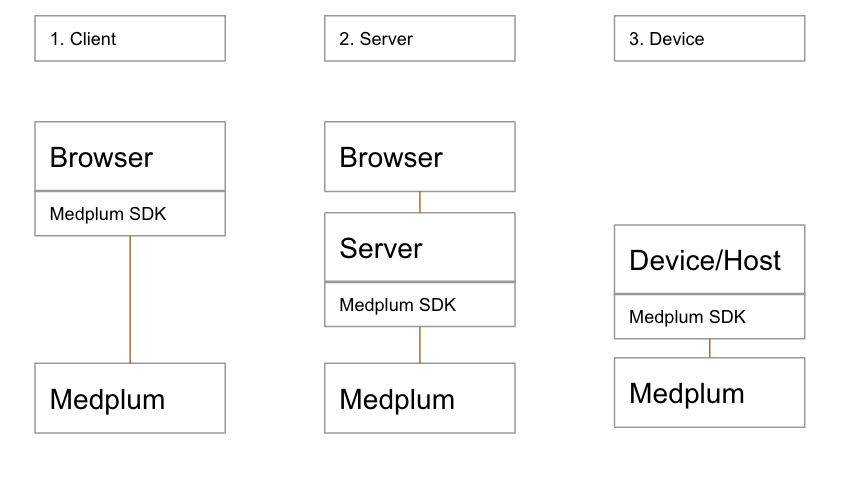
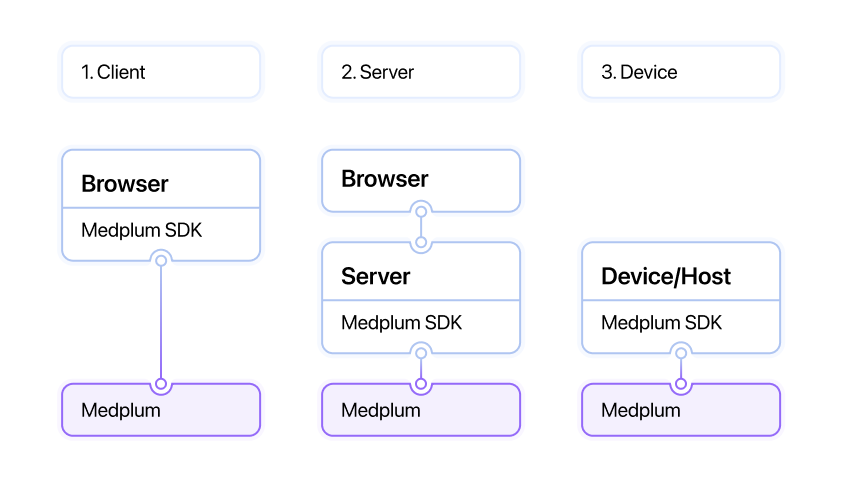
Docs on auth integration patterns (#2457)
* Preliminary article on auth integration patterns

* Adding professional diagrams

* Update to diagram

diff --git a/packages/docs/docs/auth/authentication-integration-patterns.md b/packages/docs/docs/auth/authentication-integration-patterns.md
@@ -13,13 +13,13 @@ This diagram shows a high level summary of the three common patterns. The [Medpl
 
 ## Client Side Authentication
 
-Client side authentication is when a user facing application, usually running in a web browser connects directly to Medplum to request, create or update data. This integration pattern supports sophisticated configurations and has the best the response times. A summary is shown in the diagram below.
+Client side authentication is when a **user facing application**, usually running in a web browser connects directly to Medplum to request, create or update data. This integration pattern supports sophisticated configurations and has the best the response times. A summary is shown in the diagram below.
 
 ![Client authentication](client-auth.png)
 
-Client side authentication enables the following advanced features.
+Client side authentication enables the following advanced features:
 
-- [External identity providers](/docs/auth/external-identity-providers), like [Google](/docs/auth/google-auth), [Okta](/docs/auth/okta-auth) and others
+- Enable [external identity providers](/docs/auth/external-identity-providers), like [Google](/docs/auth/google-auth), [Okta](/docs/auth/okta-auth) and others
 - Patient authentication
 - [IP Address restriction](/docs/auth/ip-access-rules) for logins
 - Use of Medplum [React components](/docs/ui-components) such as the [Signin](https://storybook.medplum.com/?path=/story/medplum-signinform--basic) and [Register](https://storybook.medplum.com/?path=/story/medplum-registerform--basic)
@@ -29,13 +29,13 @@ The [Medplum Typescript SDK](/docs/sdk/classes/MedplumClient#authentication) can
 
 ## Server Side Authentication
 
-Server side authentication is when a user facing application proxies through a host to connect to Medplum. This integration can be useful when adding Medplum functionality to a legacy application.
+Server side authentication is when a **user facing application proxies through a host** to connect to Medplum. This integration can be useful when adding Medplum functionality to a legacy application.
 
 ![Server authentication](server-auth.png)
 
-In an integration of this kind, each server can manage credentials and tokens, and use the Medplum SDK to authenticate. For example, create [Client Credentials](/docs/auth/client-credentials) and store the id and secret with the other secrets used by your application. Maintain an instance of MedplumClient as part of your running application and use the [startClientLogin](docs/sdk/classes/MedplumClient#startclientlogin) call to start an [active login](/docs/sdk/classes/MedplumClient#getactivelogin). The client will continue to refresh the connection if it is in active use, storing the access token in local storage on the server.
+In an integration of this kind, each server can manage credentials and tokens, and use the Medplum SDK to authenticate. For example, create [Client Credentials](/docs/auth/client-credentials) and store the id and secret with the other secrets used by your application. Using the [Typescript SDK](/docs/sdk/classes/MedplumClient), maintain an instance of MedplumClient as part of your running application and use the [startClientLogin](docs/sdk/classes/MedplumClient#startclientlogin) call to start an [active login](/docs/sdk/classes/MedplumClient#getactivelogin). The client will continue to refresh the connection if it is in active use, storing the access token in local storage on the server.
 
-When looking at resource [history](/docs/sdk/classes/MedplumClient#readhistory) for this type of implementation, actions will be taken on behalf of the `ClientApplication` that the server is using to connect.
+When looking at resource [history](/docs/sdk/classes/MedplumClient#readhistory) and AuditEvents for this type of implementation, actions will be taken on behalf of the `ClientApplication` that the server is using to connect.
 
 ## Device/Host Authentication
 
@@ -43,6 +43,6 @@ Device authentication is designed for true machine connectivity, for example con
 
 ![Device authentication](device-auth.png)
 
-For machine connectivity, we encourage use of [ClientCredentials](/docs/auth/client-credentials) with a tightly scoped [access controls](/docs/auth/access-control), giving minimal access to the host at the edge.
+For machine connectivity, we encourage use of [ClientCredentials](/docs/auth/client-credentials) with tightly scoped [access controls](/docs/auth/access-control), giving minimal access to the host at the edge.
 
-If OAuth2 client credentials based authentication is not an option due to device limitations, basic authentication can be used to connect to Medplum. In general, oAuth2 is preferred to basic authentication, and basic authentication should only be used when the edge environment will not tolerate OAuth2.
+If OAuth2 client credentials based authentication is not an option due to device limitations, basic authentication can be used to connect to Medplum. In general, OAuth2 is preferred to basic authentication, and basic authentication should only be used when the edge environment will not tolerate OAuth2. For example, [consuming webhooks](/docs/bots/consuming-webhooks) is a use case where Basic Authentication makes sense.

diff --git a/packages/docs/blog/2023-06-19-ensage-case-study.md b/packages/docs/blog/2023-06-19-ensage-case-study.md
@@ -65,3 +65,4 @@ In conclusion, Medplum was instrumental in providing the tools and support neede
 - Implementation partner: [AlleyCorp Nord](https://alleycorpnord.com/)
 - Tech leads: [Julien Blin](https://ca.linkedin.com/in/julienblin), [Florencia Herra Vega](https://ca.linkedin.com/in/flohdot)
 - [BonFHIR Toolkit](https://bonfhir.dev/) is featured in this application
+- [Download Case Study](https://drive.google.com/file/d/1X1m5EcS1FIytt949oUbOrrAgEFIj5QR6/view?usp=sharing) as PDF
